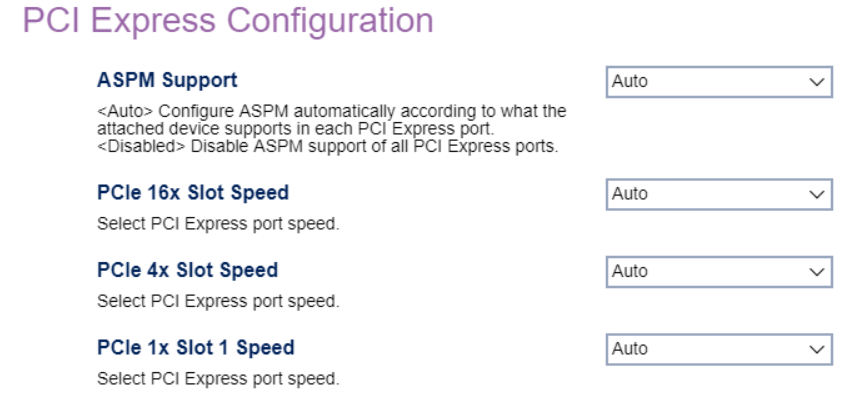
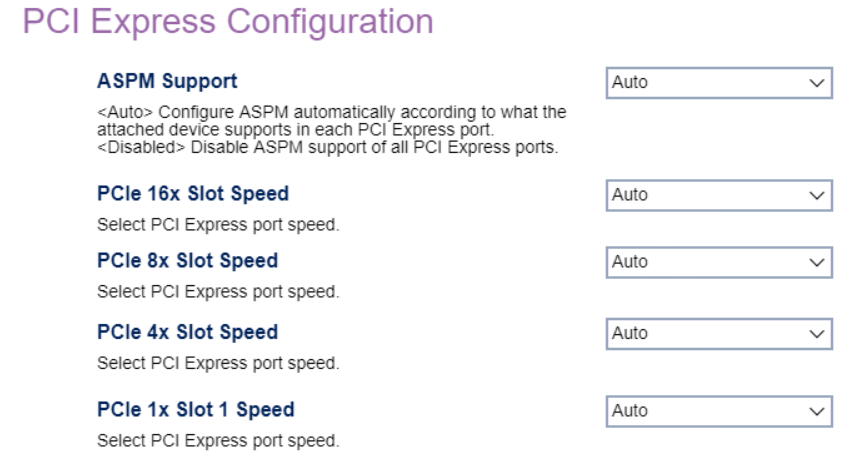
FIX: proofread pci express configuration

diff --git a/bios/settings/thinkcenter/pci_express_configuration.md b/bios/settings/thinkcenter/pci_express_configuration.md
@@ -1,6 +1,6 @@
 # PCI Express Configuration #
 
-![](./thinkcenter/img/thinkcenter_pci_express_configuration.png)
+![](./img/thinkcenter_pci_express_configuration.png)
 
 <details><summary>ASPM support</summary>
 
@@ -9,7 +9,11 @@ One of 2 possible options for active-state power management:
 1. **Auto** - Configure ASPM automatically according to what the attached device supports in each PCI Express port. Default.
 2. Disable - Disable ASPM support of all PCI Express ports.
 
-
+<!-- TODO: add WMI
+| WMI Setting name | Values | SVP Req'd | AMD/Intel |
+|:---|:---|:---|:---|
+| setting_name | setting_values | yes_no | amd_intel |
+-->
 </details>
 
 Select PCI Express port speed.
@@ -24,5 +28,43 @@ One of 1 possible options for 16x:
 4.  Gen 3 - enables Gen 3.
 5.  Gen 4 - enables Gen 4.
 
-<!-- MODEL: -->
+<!-- MODEL: S only-->
+</details>
+
+<details><summary>PCIe 8x Slot speed</summary>
+
+One of 1 possible options for 8x:
+
+1.  **Auto** - enables default_value. Default.
+2.  Gen 1 - enables Gen 1.
+3.  Gen 2 - enables Gen 2.
+4.  Gen 3 - enables Gen 3.
+5.  Gen 4 - enables Gen 4.
+
+<!-- MODEL: M90q only -->
+</details>
+
+<details><summary>PCIe 4x Slot speed</summary>
+
+One of 1 possible options for 4x:
+
+1.  **Auto** - enables default_value. Default.
+2.  Gen 1 - enables Gen 1.
+3.  Gen 2 - enables Gen 2.
+4.  Gen 3 - enables Gen 3.
+5.  Gen 4 - enables Gen 4.
+
+<!-- MODEL: S only-->
+</details>
+
+<details><summary>PCIe 1x Slot speed</summary>
+
+One of 1 possible options for 1x:
+
+1.  **Auto** - enables default_value. Default.
+2.  Gen 1 - enables Gen 1.
+3.  Gen 2 - enables Gen 2.
+4.  Gen 3 - enables Gen 3.
+
+<!-- MODEL: not M70 q-->
 </details>
